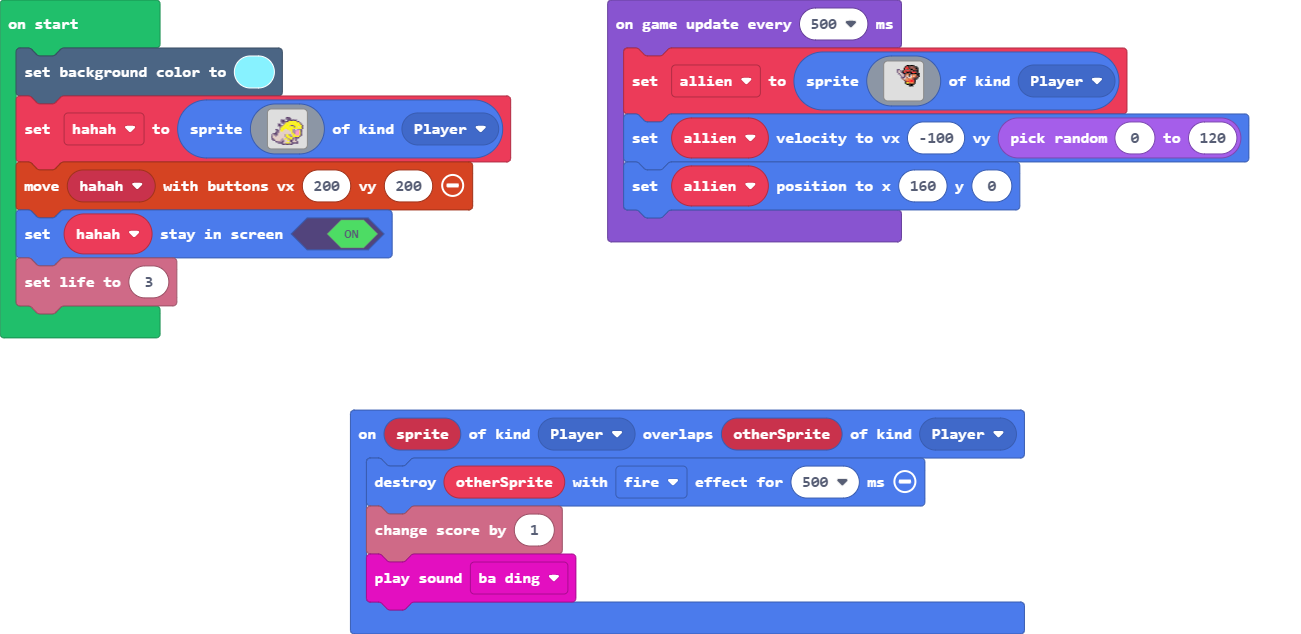
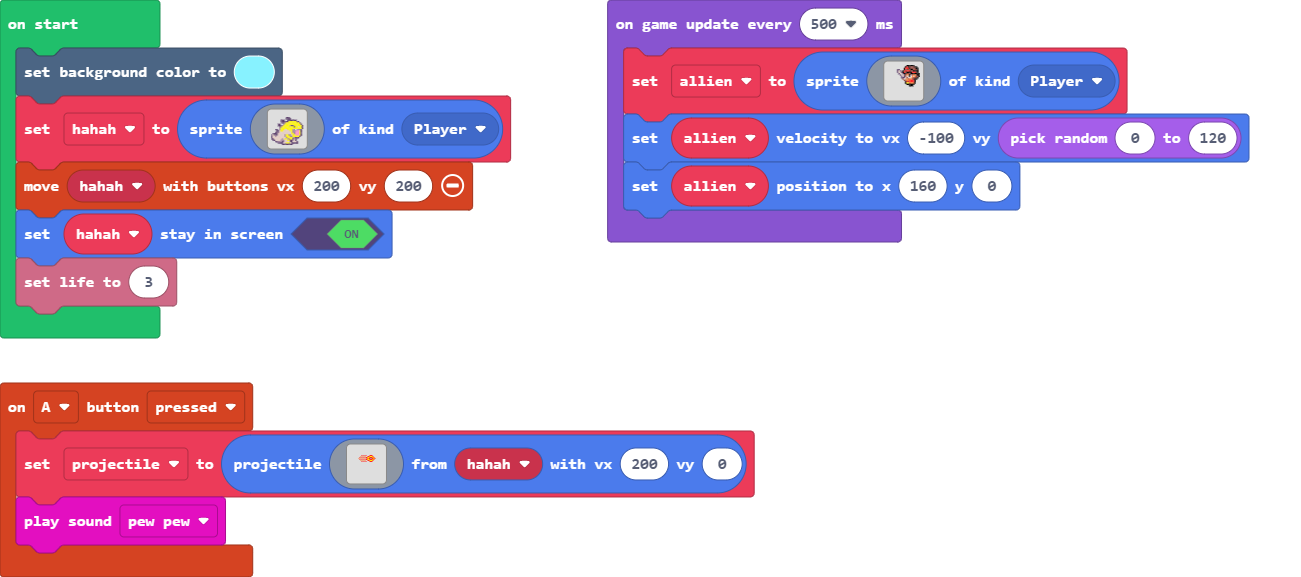
Update main.blocks, main.ts

diff --git a/main.ts b/main.ts
@@ -1,11 +1,45 @@
-sprites.onOverlap(SpriteKind.Player, SpriteKind.Player, function (sprite, otherSprite) {
-    otherSprite.destroy(effects.fire, 500)
-    info.changeScoreBy(1)
-    music.baDing.play()
+controller.A.onEvent(ControllerButtonEvent.Pressed, function () {
+    projectile = sprites.createProjectileFromSprite(img`
+        ................................
+        ................................
+        ................................
+        ................................
+        ................................
+        ................................
+        ................................
+        ...........2.2.2...222..........
+        ..........4.4.4..225552.........
+        .........2.2.2.225522252........
+        ........4.4.4.4.252292252.......
+        .........2.2.2.225522252........
+        ..........4.4.4..225552.........
+        ...........2.2.2...222..........
+        ................................
+        ................................
+        ................................
+        ................................
+        ................................
+        ................................
+        ................................
+        ................................
+        ................................
+        ................................
+        ................................
+        ................................
+        ................................
+        ................................
+        ................................
+        ................................
+        ................................
+        ................................
+        `, hahah, 200, 0)
+    music.pewPew.play()
 })
 let allien: Sprite = null
+let projectile: Sprite = null
+let hahah: Sprite = null
 scene.setBackgroundColor(9)
-let hahah = sprites.create(img`
+hahah = sprites.create(img`
     ........................
     ........................
     ........................
